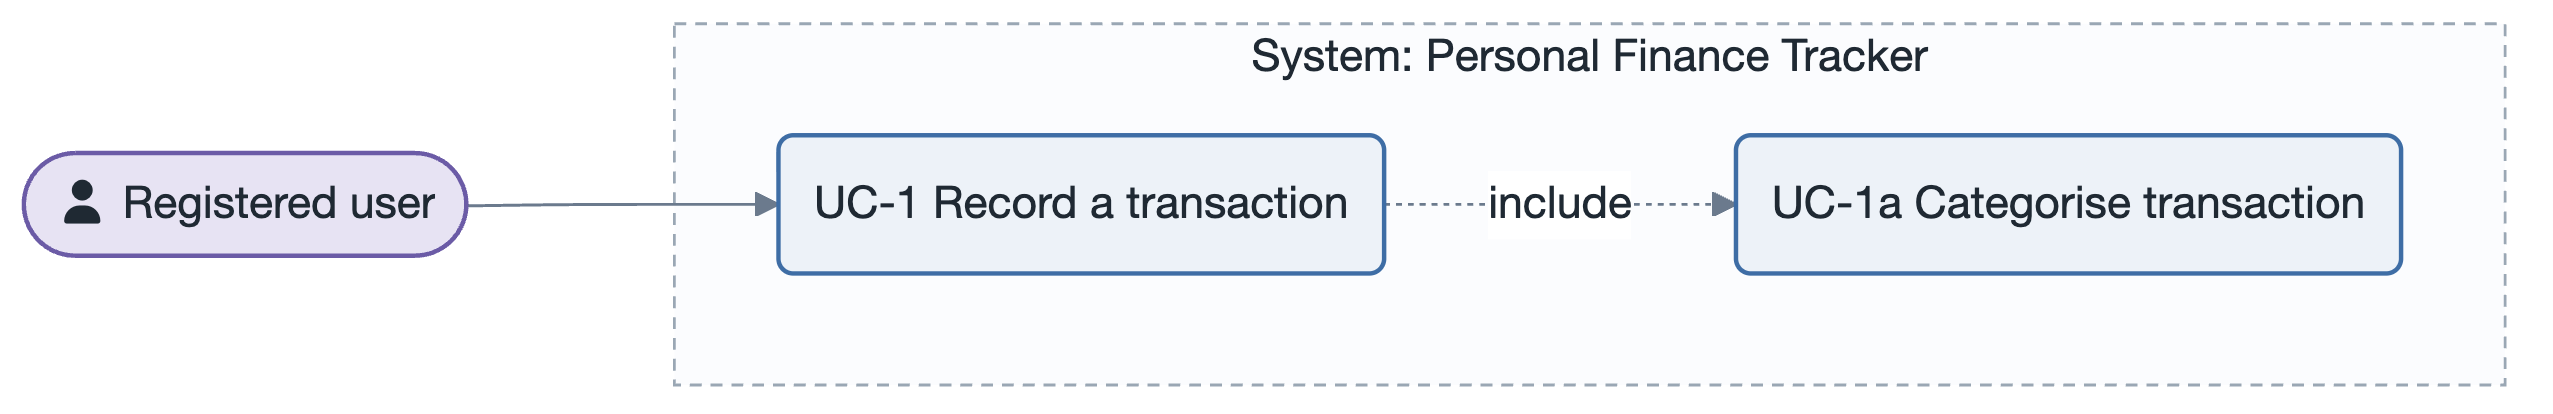
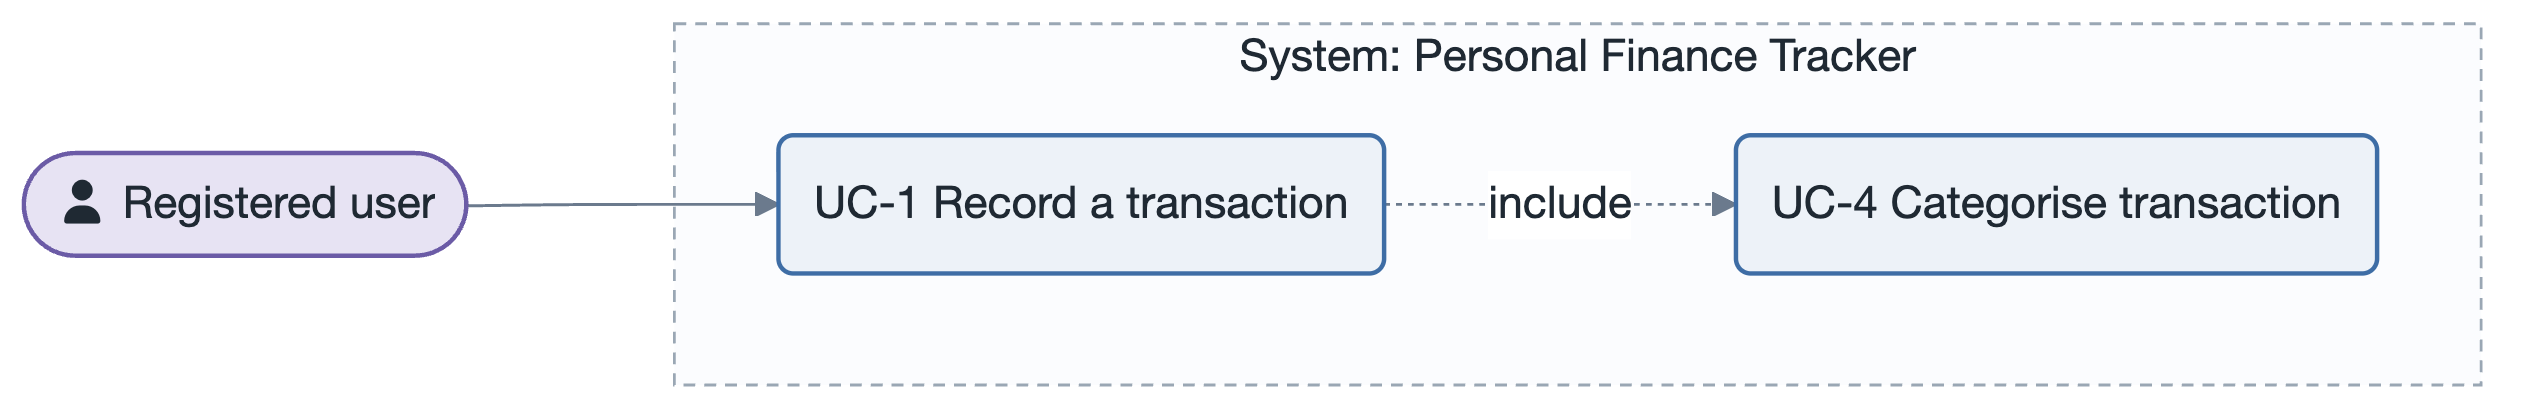
fix: correct UML use case diagram conventions; bump to 1.5.0
System actors (e.g. "Bank Import API") were drawn as stick-figure actors in
the PlantUML use-case examples — only the Mermaid fallback used the correct
«system»-stereotyped rectangle. A UML actor is a role; a role played by a
system, not a person, must not get the person glyph. Fixed the guidance in
skills/sei-diagrams/SKILL.md, templates/use-case.md, and
skills/architectural-drivers/SKILL.md, plus both worked examples.

Separately, a use case shared by two parents via <<include>> ("Categorise
transaction") had inconsistent codes across diagrams (UC-1a in UC-1's
diagram, UC-3a in UC-3's, unlabeled in the overview) and no dedicated
description. Promoted it to its own UC-4 with a UC-4.md in both example
trees, and documented the rule: every use-case node in a diagram carries one
stable code and is described in its own file; a shared <<include>> target
gets a top-level code, never a per-parent suffix.

diff --git a/examples/personal-finance-tracker-mermaid/drivers/use-cases/UC-4.md b/examples/personal-finance-tracker-mermaid/drivers/use-cases/UC-4.md
@@ -1,0 +1,66 @@
+# UC-4: Categorise transaction
+
+- **Scope**: Personal Finance Tracker
+- **Level**: subfunction (shared `<<include>>` flow)
+- **Primary actor**: Registered user
+- **Supporting actors**: —
+- **Trigger**: Reached only via `<<include>>` from [UC-1](UC-1.md) (record a transaction) or
+  [UC-3](UC-3.md) (import a bank statement) — it has no independent entry point.
+- **Preconditions**: A transaction (or a batch of imported rows) exists and needs a category.
+- **Postconditions**: Every transaction in scope has a category assigned.
+- **Priority**: high
+- **Status**: in design
+
+## Main success scenario
+
+1. The system suggests a category based on the payee / description.
+2. The user accepts the suggestion or picks a different category.
+3. The system stores the category against the transaction(s).
+
+## Extensions / alternate flows
+
+- **1a.** No suggestion available → the user picks from the full category list.
+- **2a.** (UC-3 only) Bulk import → the user can apply one category to all matching rows at once.
+
+## Architectural significance
+
+- **Drivers exercised**: Shared by the two highest-volume write paths (UC-1, UC-3); a single
+  categorisation rule/engine change must be consistent across both.
+- **Notes**: Modelled as its own use case (rather than inline in UC-1 / UC-3) because it is
+  reused by two independent parents — giving it a single stable code keeps both `<<include>>`
+  diagrams and this description consistent instead of drifting into per-parent labels
+  (the earlier draft mislabelled it `UC-1a` in one diagram and `UC-3a` in the other).
+
+## Related drivers
+
+`BG-1, PQA-1, PQA-2`
+
+## Use case diagram
+
+Mermaid `flowchart` fallback (this is the Mermaid tree): the actor sits outside the system
+boundary, the use case inside. Source: [`diagrams/UC-4.mmd`](diagrams/UC-4.mmd) · rendered +
+visually verified.
+
+```mermaid
+flowchart LR
+  %% Use case diagram — UC-4 Categorise transaction
+  pa(["fa:fa-user Registered user"])
+  subgraph sys["System: Personal Finance Tracker"]
+    uc4("UC-4 Categorise transaction")
+  end
+  pa --> uc4
+  note["Included by UC-1 (Record a transaction)<br/>and UC-3 (Import a bank statement)"]
+  uc4 -.- note
+  classDef source   fill:#E7E3F3,stroke:#6B5BA6,color:#1F2933;
+  classDef artifact fill:#EDF2F8,stroke:#3E6DA5,color:#1F2933;
+  classDef note      fill:#FBF7EE,stroke:#B07D3B,color:#1F2933,stroke-dasharray: 3 3;
+  class pa source
+  class uc4 artifact
+  class note note
+```
+
+![UC-4 — Categorise transaction](diagrams/UC-4.png)
+
+---
+
+**Navigation**: [use-cases index](README.md) · [drivers README](../README.md)

diff --git a/skills/sei-diagrams/SKILL.md b/skills/sei-diagrams/SKILL.md
@@ -265,10 +265,10 @@ ENV  ..> ART
 ## Use case diagram
 
 A use case diagram is a **UML diagram** — draw it with the **UML-specific drawing components**:
-**stick-figure actors**, **ellipse (oval) use cases**, a **system boundary rectangle**, solid
-association lines (actor ↔ use case), and dashed `..>` dependency arrows stereotyped
-`<<include>>` / `<<extend>>` (extend points from the extension to the base). Mermaid's `flowchart`
-primitives (stadiums, rounded rectangles) are **not** UML symbols, so:
+**stick-figure actors** for human/role actors, **ellipse (oval) use cases**, a **system boundary
+rectangle**, solid association lines (actor ↔ use case), and dashed `..>` dependency arrows
+stereotyped `<<include>>` / `<<extend>>` (extend points from the extension to the base). Mermaid's
+`flowchart` primitives (stadiums, rounded rectangles) are **not** UML symbols, so:
 
 - **Recommended: PlantUML** — it has the real UML glyphs. This is the default for use case diagrams.
 - **Fallback: Mermaid flowchart convention** — only when Java is unavailable and the user accepts
@@ -276,6 +276,15 @@ primitives (stadiums, rounded rectangles) are **not** UML symbols, so:
   **`fa:fa-user` person icon** in the label (`([fa:fa-user Registered user])`), **system actors**
   as a `«system»` rectangle, both **outside** the boundary `subgraph`; use cases `( )` inside;
   `-. include .->` / `-. extend .->` dashed.
+
+**Systems are not actors — don't draw them as stick figures.** An actor in UML is a *role*, and a
+role played by an external system (a third-party API, a batch job, another service) is still
+drawn distinctly from a human role: give it a `«system»`-stereotyped **rectangle**, not the
+person glyph. In PlantUML that's `rectangle "<Name>" <<system>> as alias` used in place of
+`actor "<Name>" as alias`; the rectangle still participates in ordinary associations
+(`alias --> usecaseAlias`) and sits outside the system boundary exactly like an actor would. In
+the Mermaid fallback it's the `["«system»<br/>Name"]` box already shown above. Reserve the
+stick figure for a human role (or an organizational role played by a person).
 
 One diagram per **use case** (in its `UC-<n>.md`) plus one **overview** diagram per actor group /
 subsystem (≤ ~10 use cases).
@@ -288,7 +297,7 @@ subsystem (≤ ~10 use cases).
 skinparam actorStyle awesome
 left to right direction
 actor "Registered user" as user
-actor "Bank Import API" as bank
+rectangle "Bank Import API" <<system>> as bank
 rectangle "Personal Finance Tracker" {
   usecase "UC-1\nRecord transaction" as uc1
   usecase "UC-2\nCategorise transaction" as uc2

diff --git a/skills/architectural-drivers/SKILL.md b/skills/architectural-drivers/SKILL.md
@@ -143,7 +143,11 @@ significance, related drivers.
    diagram* pattern (Mermaid convention, or PlantUML if the user prefers) — the primary actor and
    any supporting actors **outside** the system boundary, the use case **inside**, `<<include>>`
    for always-invoked sub-behaviour and `<<extend>>` for conditional sub-behaviour (dashed,
-   labelled).
+   labelled). A supporting actor that is a **system** (a third-party API, a batch job, another
+   service — not a person or role) is **not** a stick figure: draw it as a `«system»`-stereotyped
+   rectangle instead (`rectangle "<Name>" <<system>>` in PlantUML; the `«system»` box convention
+   in Mermaid) — it is still outside the boundary and still connects to the use case with an
+   ordinary association.
 2. Show the source in the conversation, render to `use-cases/diagrams/UC-<n>.png`, `Read` the PNG
    and visually cross-verify (actors outside, use case inside, include/extend dashed, no
    avoidable crossings), then embed it per the `sei-diagrams` *Embedding in Markdown* rule
@@ -152,6 +156,17 @@ significance, related drivers.
 Also produce one **overview** use case diagram per actor group / subsystem
 (`use-cases/diagrams/overview-<group>.png`, ≤ ~10 use cases) and reference it from `README.md`
 and `use-cases/README.md`.
+
+**Every use case node that appears in any diagram carries exactly one `UC-<n>` code, and that code
+is described in its own `UC-<n>.md`.** This applies to an `<<include>>`/`<<extend>>` target just as
+much as to a top-level use case — never draw an unlabelled bubble, and never let the same shared
+sub-behaviour carry different codes in different diagrams (e.g. `UC-1a` in UC-1's diagram but
+`UC-3a` in UC-3's diagram for the same "categorise transaction" flow). If a sub-behaviour is
+`<<include>>`d by more than one parent use case, give it its own independent top-level code (its
+own `UC-<n>.md`, its own small diagram) rather than a `<parent>a`-style suffix, since a suffix
+implies single-parent ownership it doesn't have; use the `<parent>a` suffix only for a sub-flow
+private to one parent. Every overview diagram must reuse the same codes as the individual `UC-<n>`
+diagrams — an overview is not the place to introduce a fresh, undocumented label.
 
 ### Step 4 — Constraints → `constraints/CON-<n>.md`
 One file per constraint from `templates/constraint.md`: type (business / technical / regulatory),

diff --git a/templates/use-case.md b/templates/use-case.md
@@ -35,9 +35,12 @@
 ## Use case diagram
 
 A **proper UML use case diagram for this use case**, drawn with **UML-specific components** —
-stick-figure actors **outside** the system boundary rectangle, ellipse use cases **inside** it,
-solid association lines, dashed `..>` dependencies stereotyped `<<include>>` (always) /
-`<<extend>>` (conditional). Rendered to `diagrams/UC-<n>.png` and visually cross-verified.
+human actors as stick figures and system actors as a `«system»`-stereotyped rectangle, both
+**outside** the system boundary rectangle, ellipse use cases **inside** it, solid association
+lines, dashed `..>` dependencies stereotyped `<<include>>` (always) / `<<extend>>` (conditional).
+A supporting actor that is a system (an external API, service, or batch job — anything without a
+goal of its own) is **not** an `actor`: model it as a `rectangle "<name>" <<system>>` so it reads
+as a system, not a person. Rendered to `diagrams/UC-<n>.png` and visually cross-verified.
 
 **PlantUML (UML notation — default):**
 
@@ -47,7 +50,7 @@ solid association lines, dashed `..>` dependencies stereotyped `<<include>>` (al
 skinparam actorStyle awesome
 left to right direction
 actor "<Primary actor>" as actor1
-actor "<Supporting actor / system>" as supp
+rectangle "<Supporting system>" <<system>> as supp
 rectangle "<system name>" {
   usecase "UC-<n>\n<name>" as uc
   usecase "UC-<n>a\n<included sub-use-case>" as sub
@@ -82,7 +85,14 @@ flowchart LR
   class uc,sub artifact
 ```
 
-For a human primary actor use `fa:fa-user` (a person glyph); for a system/API supporting actor
-use the `«system»` rectangle.
+For a human actor use `fa:fa-user` (a person glyph) in Mermaid / a stick figure (`actor`) in
+PlantUML; for a system/API supporting actor use the `«system»` rectangle in both — never a stick
+figure, since a system is not a person.
+
+The `UC-<n>a` suffix on the included sub-use-case above is only correct when that sub-behaviour is
+private to **this** use case. If it is `<<include>>`d by more than one parent use case, it is not a
+private sub-flow — give it its own top-level `UC-<m>.md` and its own code, and reference that same
+code (never a different per-parent suffix) in every diagram that includes it, including any
+overview diagram.
 
 <!-- changed <YYYY-MM-DD>: <what and why> -->

diff --git a/examples/personal-finance-tracker-plantuml/drivers/use-cases/UC-4.md b/examples/personal-finance-tracker-plantuml/drivers/use-cases/UC-4.md
@@ -1,0 +1,50 @@
+# UC-4: Categorise transaction
+
+- **Scope**: Personal Finance Tracker
+- **Level**: subfunction (shared `<<include>>` flow)
+- **Primary actor**: Registered user
+- **Supporting actors**: —
+- **Trigger**: Reached only via `<<include>>` from [UC-1](UC-1.md) (record a transaction) or
+  [UC-3](UC-3.md) (import a bank statement) — it has no independent entry point.
+- **Preconditions**: A transaction (or a batch of imported rows) exists and needs a category.
+- **Postconditions**: Every transaction in scope has a category assigned.
+- **Priority**: high
+- **Status**: in design
+
+## Main success scenario
+
+1. The system suggests a category based on the payee / description.
+2. The user accepts the suggestion or picks a different category.
+3. The system stores the category against the transaction(s).
+
+## Extensions / alternate flows
+
+- **1a.** No suggestion available → the user picks from the full category list.
+- **2a.** (UC-3 only) Bulk import → the user can apply one category to all matching rows at once.
+
+## Architectural significance
+
+- **Drivers exercised**: Shared by the two highest-volume write paths (UC-1, UC-3); a single
+  categorisation rule/engine change must be consistent across both.
+- **Notes**: Modelled as its own use case (rather than inline in UC-1 / UC-3) because it is
+  reused by two independent parents — giving it a single stable code keeps both `<<include>>`
+  diagrams and this description consistent instead of drifting into per-parent labels
+  (the earlier draft mislabelled it `UC-1a` in one diagram and `UC-3a` in the other).
+
+## Related drivers
+
+`BG-1, PQA-1, PQA-2`
+
+## Use case diagram
+
+Native PlantUML `usecase` notation (this is the PlantUML tree): stick-figure actor outside the
+boundary rectangle, ellipse use case inside. Source:
+[`diagrams/UC-4.puml`](diagrams/UC-4.puml) · rendered + visually verified.
+
+![UC-4 — Categorise transaction](diagrams/UC-4.png)
+
+Source: [`diagrams/UC-4.puml`](diagrams/UC-4.puml) · rendered + visually verified.
+
+---
+
+**Navigation**: [use-cases index](README.md) · [drivers README](../README.md)

diff --git a/examples/personal-finance-tracker-mermaid/drivers/README.md b/examples/personal-finance-tracker-mermaid/drivers/README.md
@@ -27,6 +27,7 @@
 | UC-1 | Record a transaction | Registered user | [diagram](use-cases/diagrams/UC-1.png) | [UC-1](use-cases/UC-1.md) |
 | UC-2 | View the monthly dashboard | Registered user | [diagram](use-cases/diagrams/UC-2.png) | [UC-2](use-cases/UC-2.md) |
 | UC-3 | Import a bank statement (CSV) | Registered user | [diagram](use-cases/diagrams/UC-3.png) | [UC-3](use-cases/UC-3.md) |
+| UC-4 | Categorise transaction (`<<include>>`d by UC-1, UC-3) | Registered user | [diagram](use-cases/diagrams/UC-4.png) | [UC-4](use-cases/UC-4.md) |
 
 Overview use case diagram: [`use-cases/diagrams/overview-core.png`](use-cases/diagrams/overview-core.png)
 (Mermaid `flowchart` fallback — this is the Mermaid tree).
@@ -69,6 +70,7 @@ Never `QAS-`.
 | UC-1 | [UC-1](use-cases/UC-1.md) | BG-1, BG-3 | PQA-1, MQA-1, CON-4 | ADD iter 1 | in design |
 | UC-2 | [UC-2](use-cases/UC-2.md) | BG-1 | PQA-1, UQA-1 | ADD iter 2 | open |
 | UC-3 | [UC-3](use-cases/UC-3.md) | BG-1 | PQA-2 | ADD iter 3 | open |
+| UC-4 | [UC-4](use-cases/UC-4.md) | BG-1 | UC-1, UC-3 (`<<include>>`) | ADD iter 1 | in design |
 | AQA-1 | [AQA-1](quality-attributes/AQA-1.md) | BG-1, BG-4 | CON-3, CON-5 | ADD iter 1 | open |
 | PQA-1 | [PQA-1](quality-attributes/PQA-1.md) | BG-1 | UC-1, UC-2 | ADD iter 2 | open |
 | PQA-2 | [PQA-2](quality-attributes/PQA-2.md) | BG-1 | UC-3 | ADD iter 3 | open |

diff --git a/examples/personal-finance-tracker-plantuml/drivers/README.md b/examples/personal-finance-tracker-plantuml/drivers/README.md
@@ -27,6 +27,7 @@
 | UC-1 | Record a transaction | Registered user | [diagram](use-cases/diagrams/UC-1.png) | [UC-1](use-cases/UC-1.md) |
 | UC-2 | View the monthly dashboard | Registered user | [diagram](use-cases/diagrams/UC-2.png) | [UC-2](use-cases/UC-2.md) |
 | UC-3 | Import a bank statement (CSV) | Registered user | [diagram](use-cases/diagrams/UC-3.png) | [UC-3](use-cases/UC-3.md) |
+| UC-4 | Categorise transaction (`<<include>>`d by UC-1, UC-3) | Registered user | [diagram](use-cases/diagrams/UC-4.png) | [UC-4](use-cases/UC-4.md) |
 
 Overview use case diagram: [`use-cases/diagrams/overview-core.png`](use-cases/diagrams/overview-core.png)
 (native PlantUML — this is the PlantUML tree).
@@ -69,6 +70,7 @@ Never `QAS-`.
 | UC-1 | [UC-1](use-cases/UC-1.md) | BG-1, BG-3 | PQA-1, MQA-1, CON-4 | ADD iter 1 | in design |
 | UC-2 | [UC-2](use-cases/UC-2.md) | BG-1 | PQA-1, UQA-1 | ADD iter 2 | open |
 | UC-3 | [UC-3](use-cases/UC-3.md) | BG-1 | PQA-2 | ADD iter 3 | open |
+| UC-4 | [UC-4](use-cases/UC-4.md) | BG-1 | UC-1, UC-3 (`<<include>>`) | ADD iter 1 | in design |
 | AQA-1 | [AQA-1](quality-attributes/AQA-1.md) | BG-1, BG-4 | CON-3, CON-5 | ADD iter 1 | open |
 | PQA-1 | [PQA-1](quality-attributes/PQA-1.md) | BG-1 | UC-1, UC-2 | ADD iter 2 | open |
 | PQA-2 | [PQA-2](quality-attributes/PQA-2.md) | BG-1 | UC-3 | ADD iter 3 | open |

diff --git a/examples/personal-finance-tracker-mermaid/drivers/use-cases/UC-3.md b/examples/personal-finance-tracker-mermaid/drivers/use-cases/UC-3.md
@@ -25,7 +25,7 @@
 
 ## Architectural significance
 
-- **Drivers exercised**: Bulk write path; `<<include>>`s categorisation; the first candidate for asynchronous processing (PQA-2).
+- **Drivers exercised**: Bulk write path; `<<include>>`s [UC-4](UC-4.md) (categorisation); the first candidate for asynchronous processing (PQA-2).
 
 ## Related drivers
 
@@ -43,17 +43,17 @@ flowchart LR
   bank["&laquo;system&raquo;<br/>Bank Import API"]
   subgraph sys["System: Personal Finance Tracker"]
     uc3("UC-3 Import a bank statement (CSV)")
-    uc3a("UC-3a Categorise transaction")
+    uc4("UC-4 Categorise transaction")
   end
   pa --> uc3
   bank --> uc3
-  uc3 -. include .-> uc3a
+  uc3 -. include .-> uc4
   classDef source   fill:#E7E3F3,stroke:#6B5BA6,color:#1F2933;
   classDef external fill:#F5EEE3,stroke:#B07D3B,color:#1F2933;
   classDef artifact fill:#EDF2F8,stroke:#3E6DA5,color:#1F2933;
   class pa source
   class bank external
-  class uc3,uc3a artifact
+  class uc3,uc4 artifact
 ```
 
 ![UC-3 — Import a bank statement (CSV)](diagrams/UC-3.png)

diff --git a/examples/personal-finance-tracker-mermaid/drivers/use-cases/UC-1.md b/examples/personal-finance-tracker-mermaid/drivers/use-cases/UC-1.md
@@ -25,7 +25,7 @@
 
 ## Architectural significance
 
-- **Drivers exercised**: Dominates write load; sits on the p95 latency path (PQA-1); every modifiability change touches it (MQA-1).
+- **Drivers exercised**: Dominates write load; sits on the p95 latency path (PQA-1); every modifiability change touches it (MQA-1); `<<include>>`s [UC-4](UC-4.md) (categorisation).
 
 ## Related drivers
 
@@ -43,14 +43,14 @@ flowchart LR
   pa(["fa:fa-user Registered user"])
   subgraph sys["System: Personal Finance Tracker"]
     uc1("UC-1 Record a transaction")
-    uc1a("UC-1a Categorise transaction")
+    uc4("UC-4 Categorise transaction")
   end
   pa --> uc1
-  uc1 -. include .-> uc1a
+  uc1 -. include .-> uc4
   classDef source   fill:#E7E3F3,stroke:#6B5BA6,color:#1F2933;
   classDef artifact fill:#EDF2F8,stroke:#3E6DA5,color:#1F2933;
   class pa source
-  class uc1,uc1a artifact
+  class uc1,uc4 artifact
 ```
 
 ![UC-1 — Record a transaction](diagrams/UC-1.png)

diff --git a/examples/personal-finance-tracker-plantuml/drivers/use-cases/UC-3.md b/examples/personal-finance-tracker-plantuml/drivers/use-cases/UC-3.md
@@ -3,7 +3,8 @@
 - **Scope**: Personal Finance Tracker
 - **Level**: user goal
 - **Primary actor**: Registered user
-- **Supporting actors**: Bank Import API
+- **Supporting actors**: Bank Import API (system actor — drawn as a `«system»` rectangle, not a
+  stick figure, in the use case diagram)
 - **Trigger**: The user uploads a CSV file
 - **Preconditions**: The user is authenticated
 - **Postconditions**: the requested change is persisted and the dashboard reflects it
@@ -25,7 +26,7 @@
 
 ## Architectural significance
 
-- **Drivers exercised**: Bulk write path; `<<include>>`s categorisation; the first candidate for asynchronous processing (PQA-2).
+- **Drivers exercised**: Bulk write path; `<<include>>`s [UC-4](UC-4.md) (categorisation); the first candidate for asynchronous processing (PQA-2).
 
 ## Related drivers
 

diff --git a/examples/personal-finance-tracker-plantuml/drivers/use-cases/README.md b/examples/personal-finance-tracker-plantuml/drivers/use-cases/README.md
@@ -9,6 +9,7 @@ PlantUML `usecase` — this is the PlantUML tree).
 | [UC-1](UC-1.md) | Record a transaction | Registered user | high | [UC-1](diagrams/UC-1.png) | in design |
 | [UC-2](UC-2.md) | View the monthly dashboard | Registered user | high | [UC-2](diagrams/UC-2.png) | open |
 | [UC-3](UC-3.md) | Import a bank statement (CSV) | Registered user | medium | [UC-3](diagrams/UC-3.png) | open |
+| [UC-4](UC-4.md) | Categorise transaction (included by UC-1, UC-3) | Registered user | high | [UC-4](diagrams/UC-4.png) | in design |
 
 Overview diagram (all core use cases): [overview-core](diagrams/overview-core.png)
 

diff --git a/examples/personal-finance-tracker-mermaid/drivers/use-cases/README.md b/examples/personal-finance-tracker-mermaid/drivers/use-cases/README.md
@@ -9,6 +9,7 @@ fallback — this is the Mermaid tree).
 | [UC-1](UC-1.md) | Record a transaction | Registered user | high | [UC-1](diagrams/UC-1.png) | in design |
 | [UC-2](UC-2.md) | View the monthly dashboard | Registered user | high | [UC-2](diagrams/UC-2.png) | open |
 | [UC-3](UC-3.md) | Import a bank statement (CSV) | Registered user | medium | [UC-3](diagrams/UC-3.png) | open |
+| [UC-4](UC-4.md) | Categorise transaction (included by UC-1, UC-3) | Registered user | high | [UC-4](diagrams/UC-4.png) | in design |
 
 Overview diagram (all core use cases): [overview-core](diagrams/overview-core.png)
 
